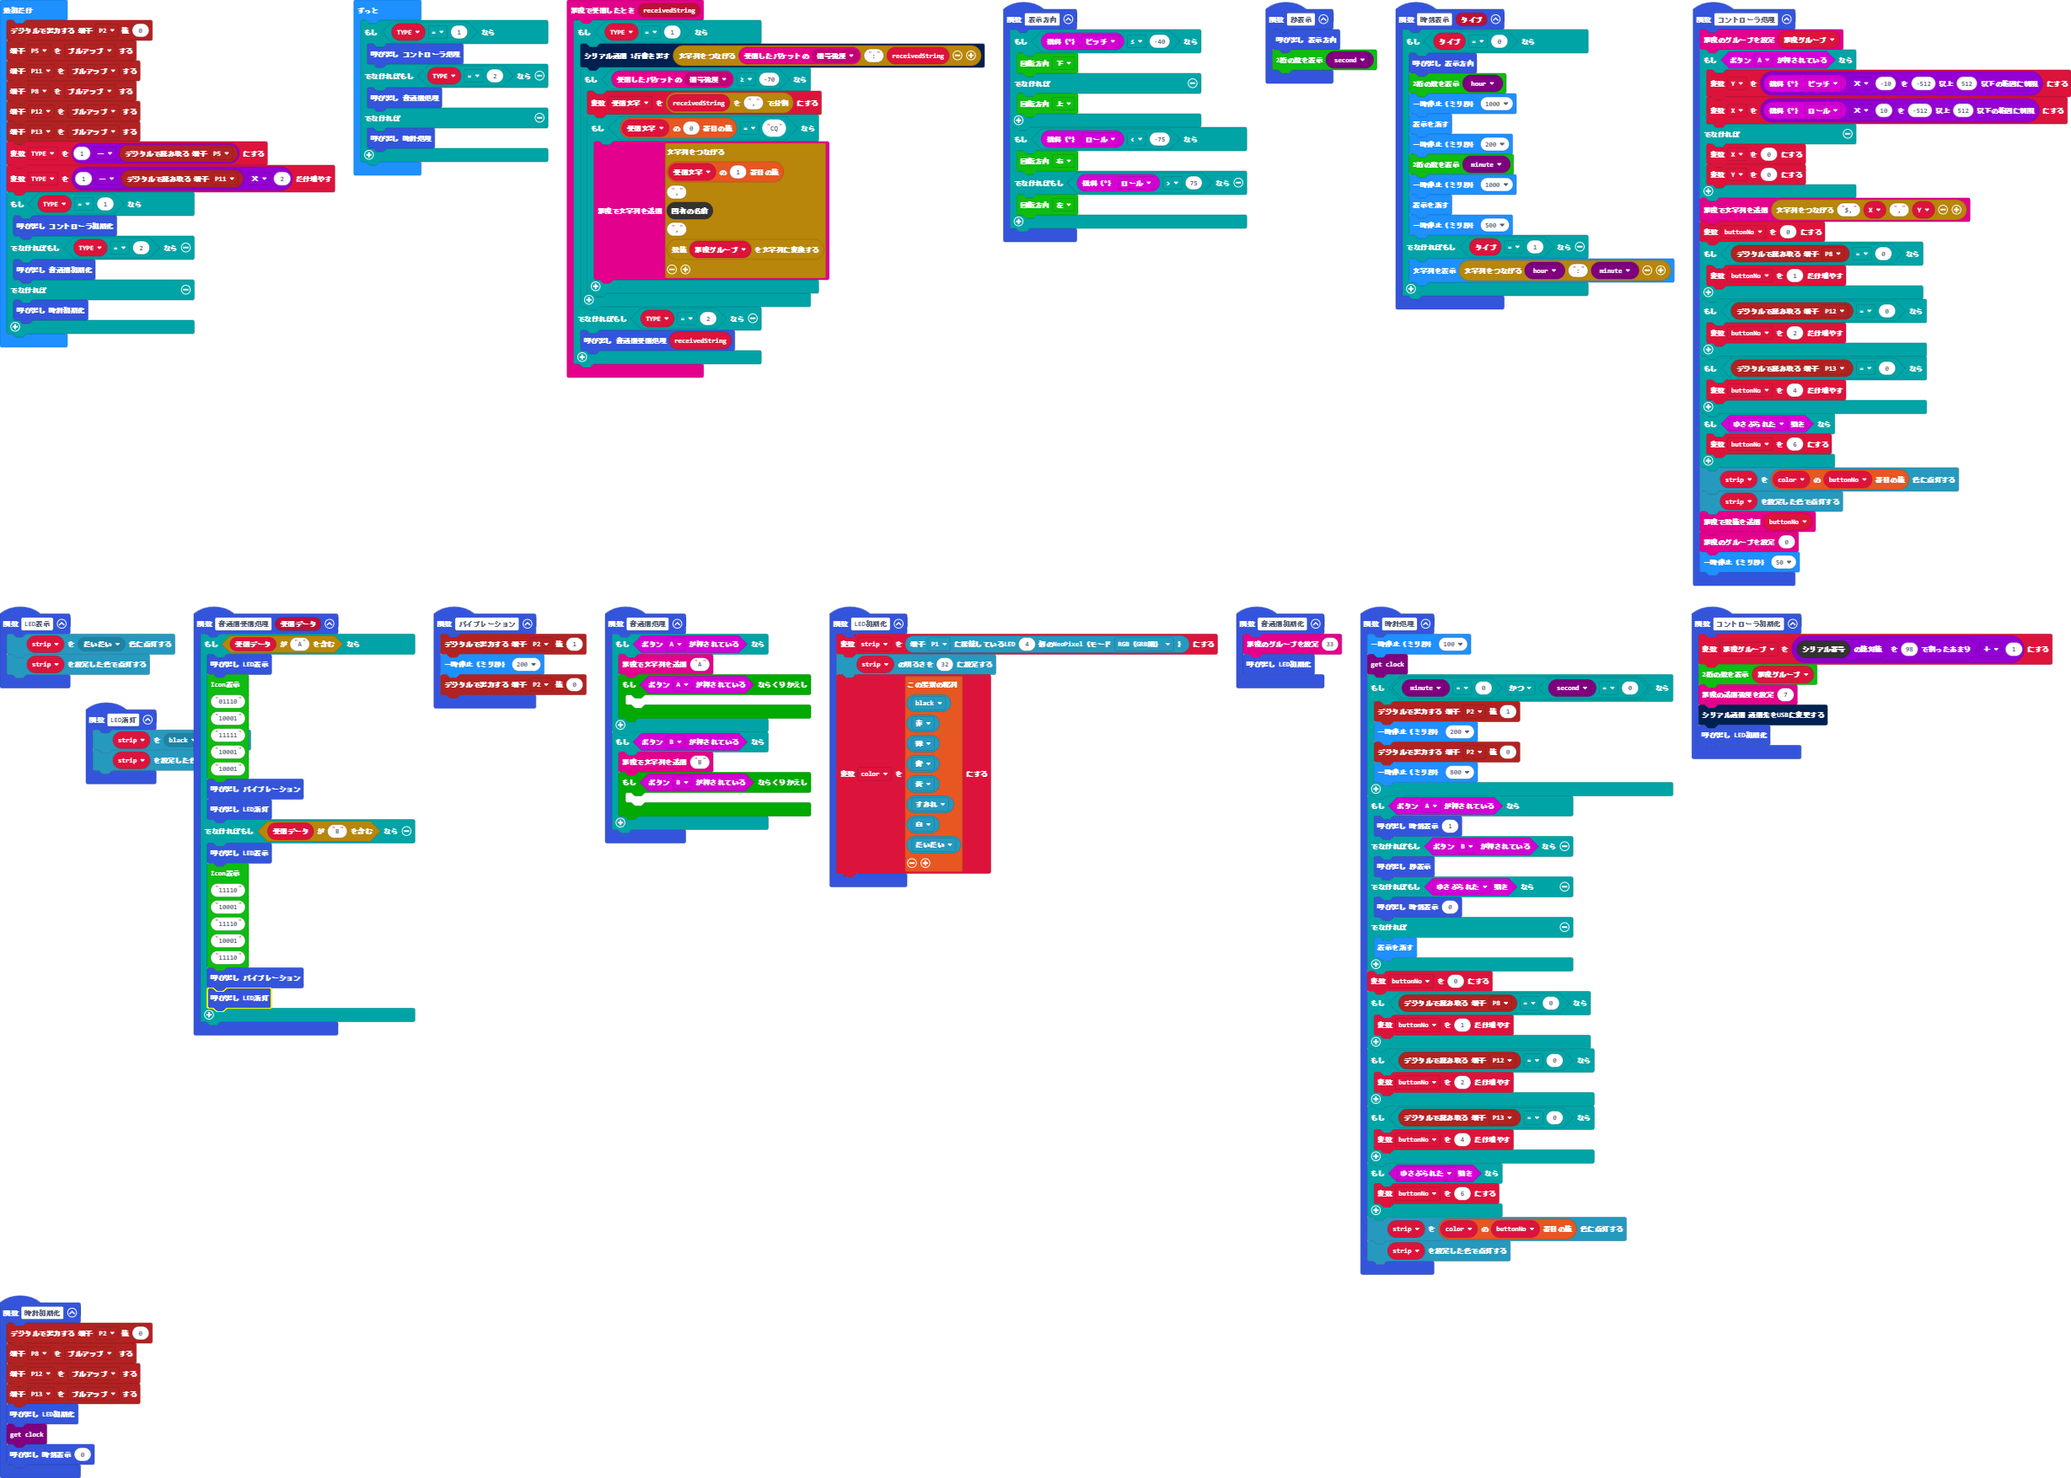
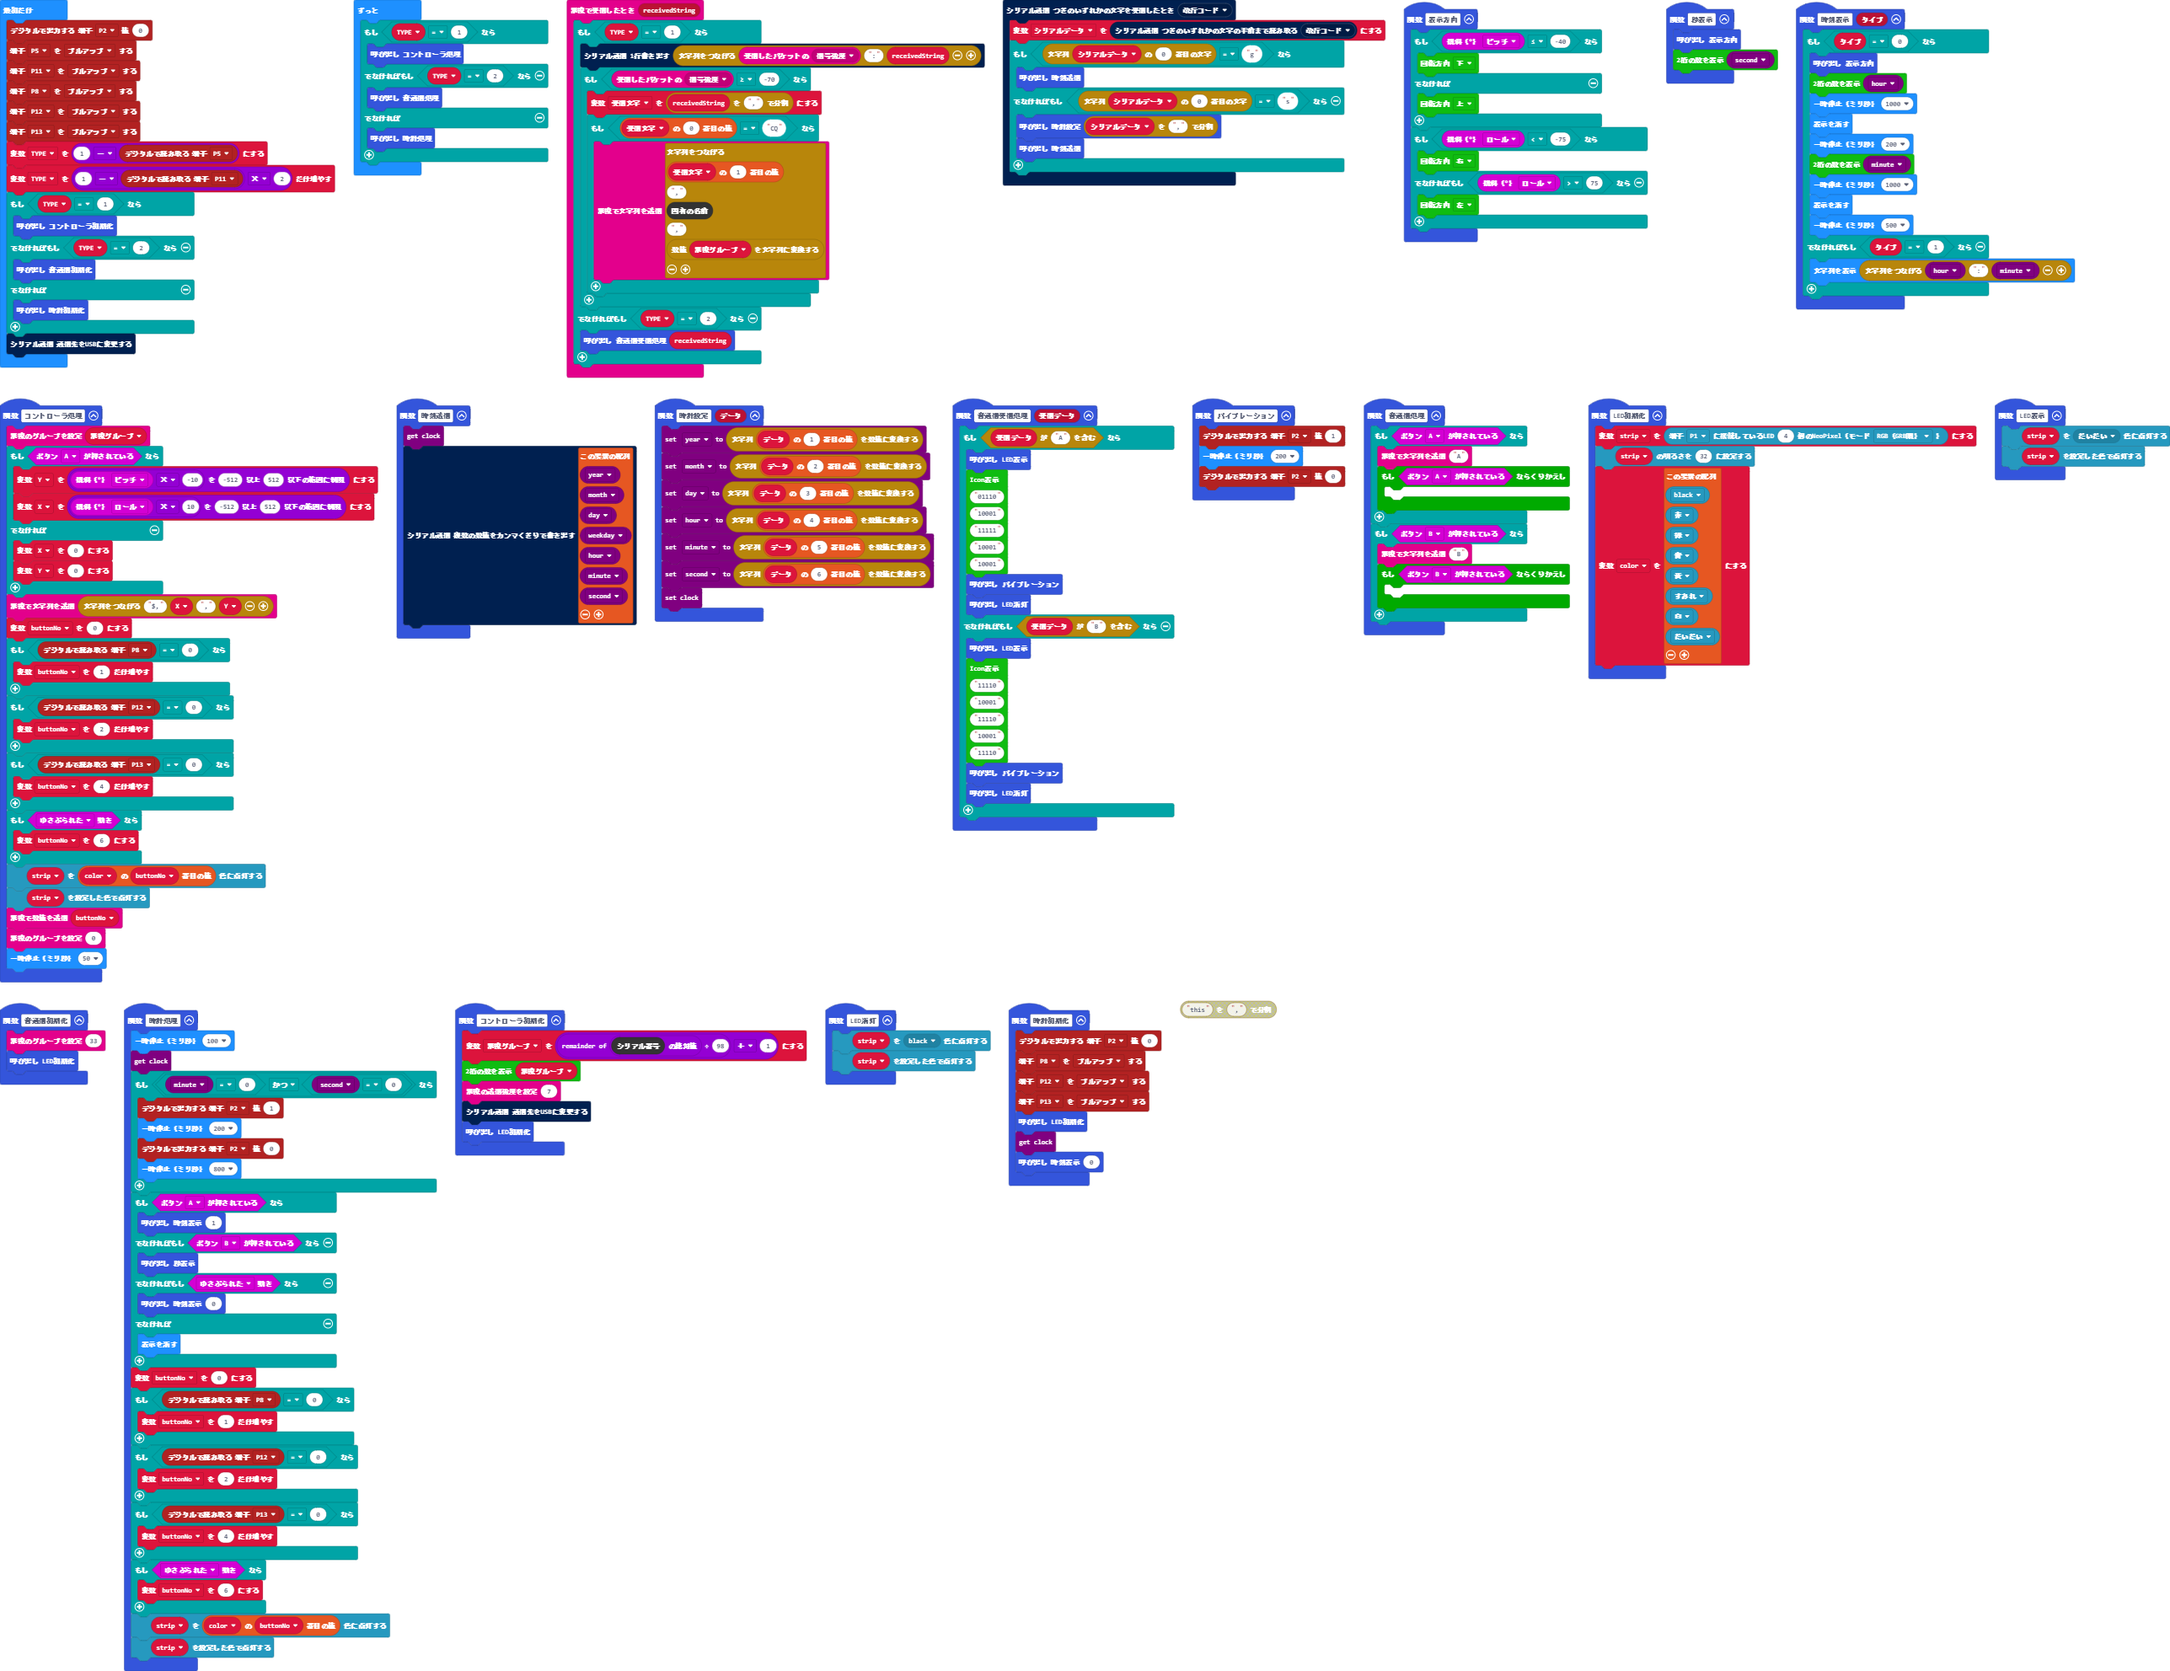
更新 main.blocks, main.ts

diff --git a/main.ts b/main.ts
@@ -2,6 +2,18 @@ function LED消灯 () {
     strip.showColor(neopixel.colors(NeoPixelColors.Black))
     strip.show()
 }
+function 時刻送信 () {
+    ds3231.getClock()
+    serial.writeNumbers([
+    ds3231.getClockData(clockData.year),
+    ds3231.getClockData(clockData.month),
+    ds3231.getClockData(clockData.day),
+    ds3231.getClockData(clockData.weekday),
+    ds3231.getClockData(clockData.hour),
+    ds3231.getClockData(clockData.minute),
+    ds3231.getClockData(clockData.second)
+    ])
+}
 function コントローラ処理 () {
     radio.setGroup(無線グループ)
     if (input.buttonIsPressed(Button.A)) {
@@ -30,6 +42,15 @@ function コントローラ処理 () {
     radio.sendNumber(buttonNo)
     radio.setGroup(0)
     basic.pause(50)
+}
+function 時計設定 (データ: string[]) {
+    ds3231.setClockData(clockData.year, parseFloat(データ[1]))
+    ds3231.setClockData(clockData.month, parseFloat(データ[2]))
+    ds3231.setClockData(clockData.day, parseFloat(データ[3]))
+    ds3231.setClockData(clockData.hour, parseFloat(データ[4]))
+    ds3231.setClockData(clockData.minute, parseFloat(データ[5]))
+    ds3231.setClockData(clockData.second, parseFloat(データ[6]))
+    ds3231.setClock()
 }
 function 音通信処理 () {
     if (input.buttonIsPressed(Button.A)) {
@@ -92,6 +113,15 @@ function 時計初期化 () {
     ds3231.getClock()
     時刻表示(0)
 }
+serial.onDataReceived(serial.delimiters(Delimiters.NewLine), function () {
+    シリアルデータ = serial.readUntil(serial.delimiters(Delimiters.NewLine))
+    if (シリアルデータ.charAt(0) == "g") {
+        時刻送信()
+    } else if (シリアルデータ.charAt(0) == "s") {
+        時計設定(シリアルデータ.split(","))
+        時刻送信()
+    }
+})
 function LED表示 () {
     strip.showColor(neopixel.colors(NeoPixelColors.Orange))
     strip.show()
@@ -192,6 +222,7 @@ function 時刻表示 (タイプ: number) {
     }
 }
 let 受信文字: string[] = []
+let シリアルデータ = ""
 let color: number[] = []
 let buttonNo = 0
 let X = 0
@@ -214,6 +245,7 @@ if (TYPE == 1) {
 } else {
     時計初期化()
 }
+serial.redirectToUSB()
 basic.forever(function () {
     if (TYPE == 1) {
         コントローラ処理()
